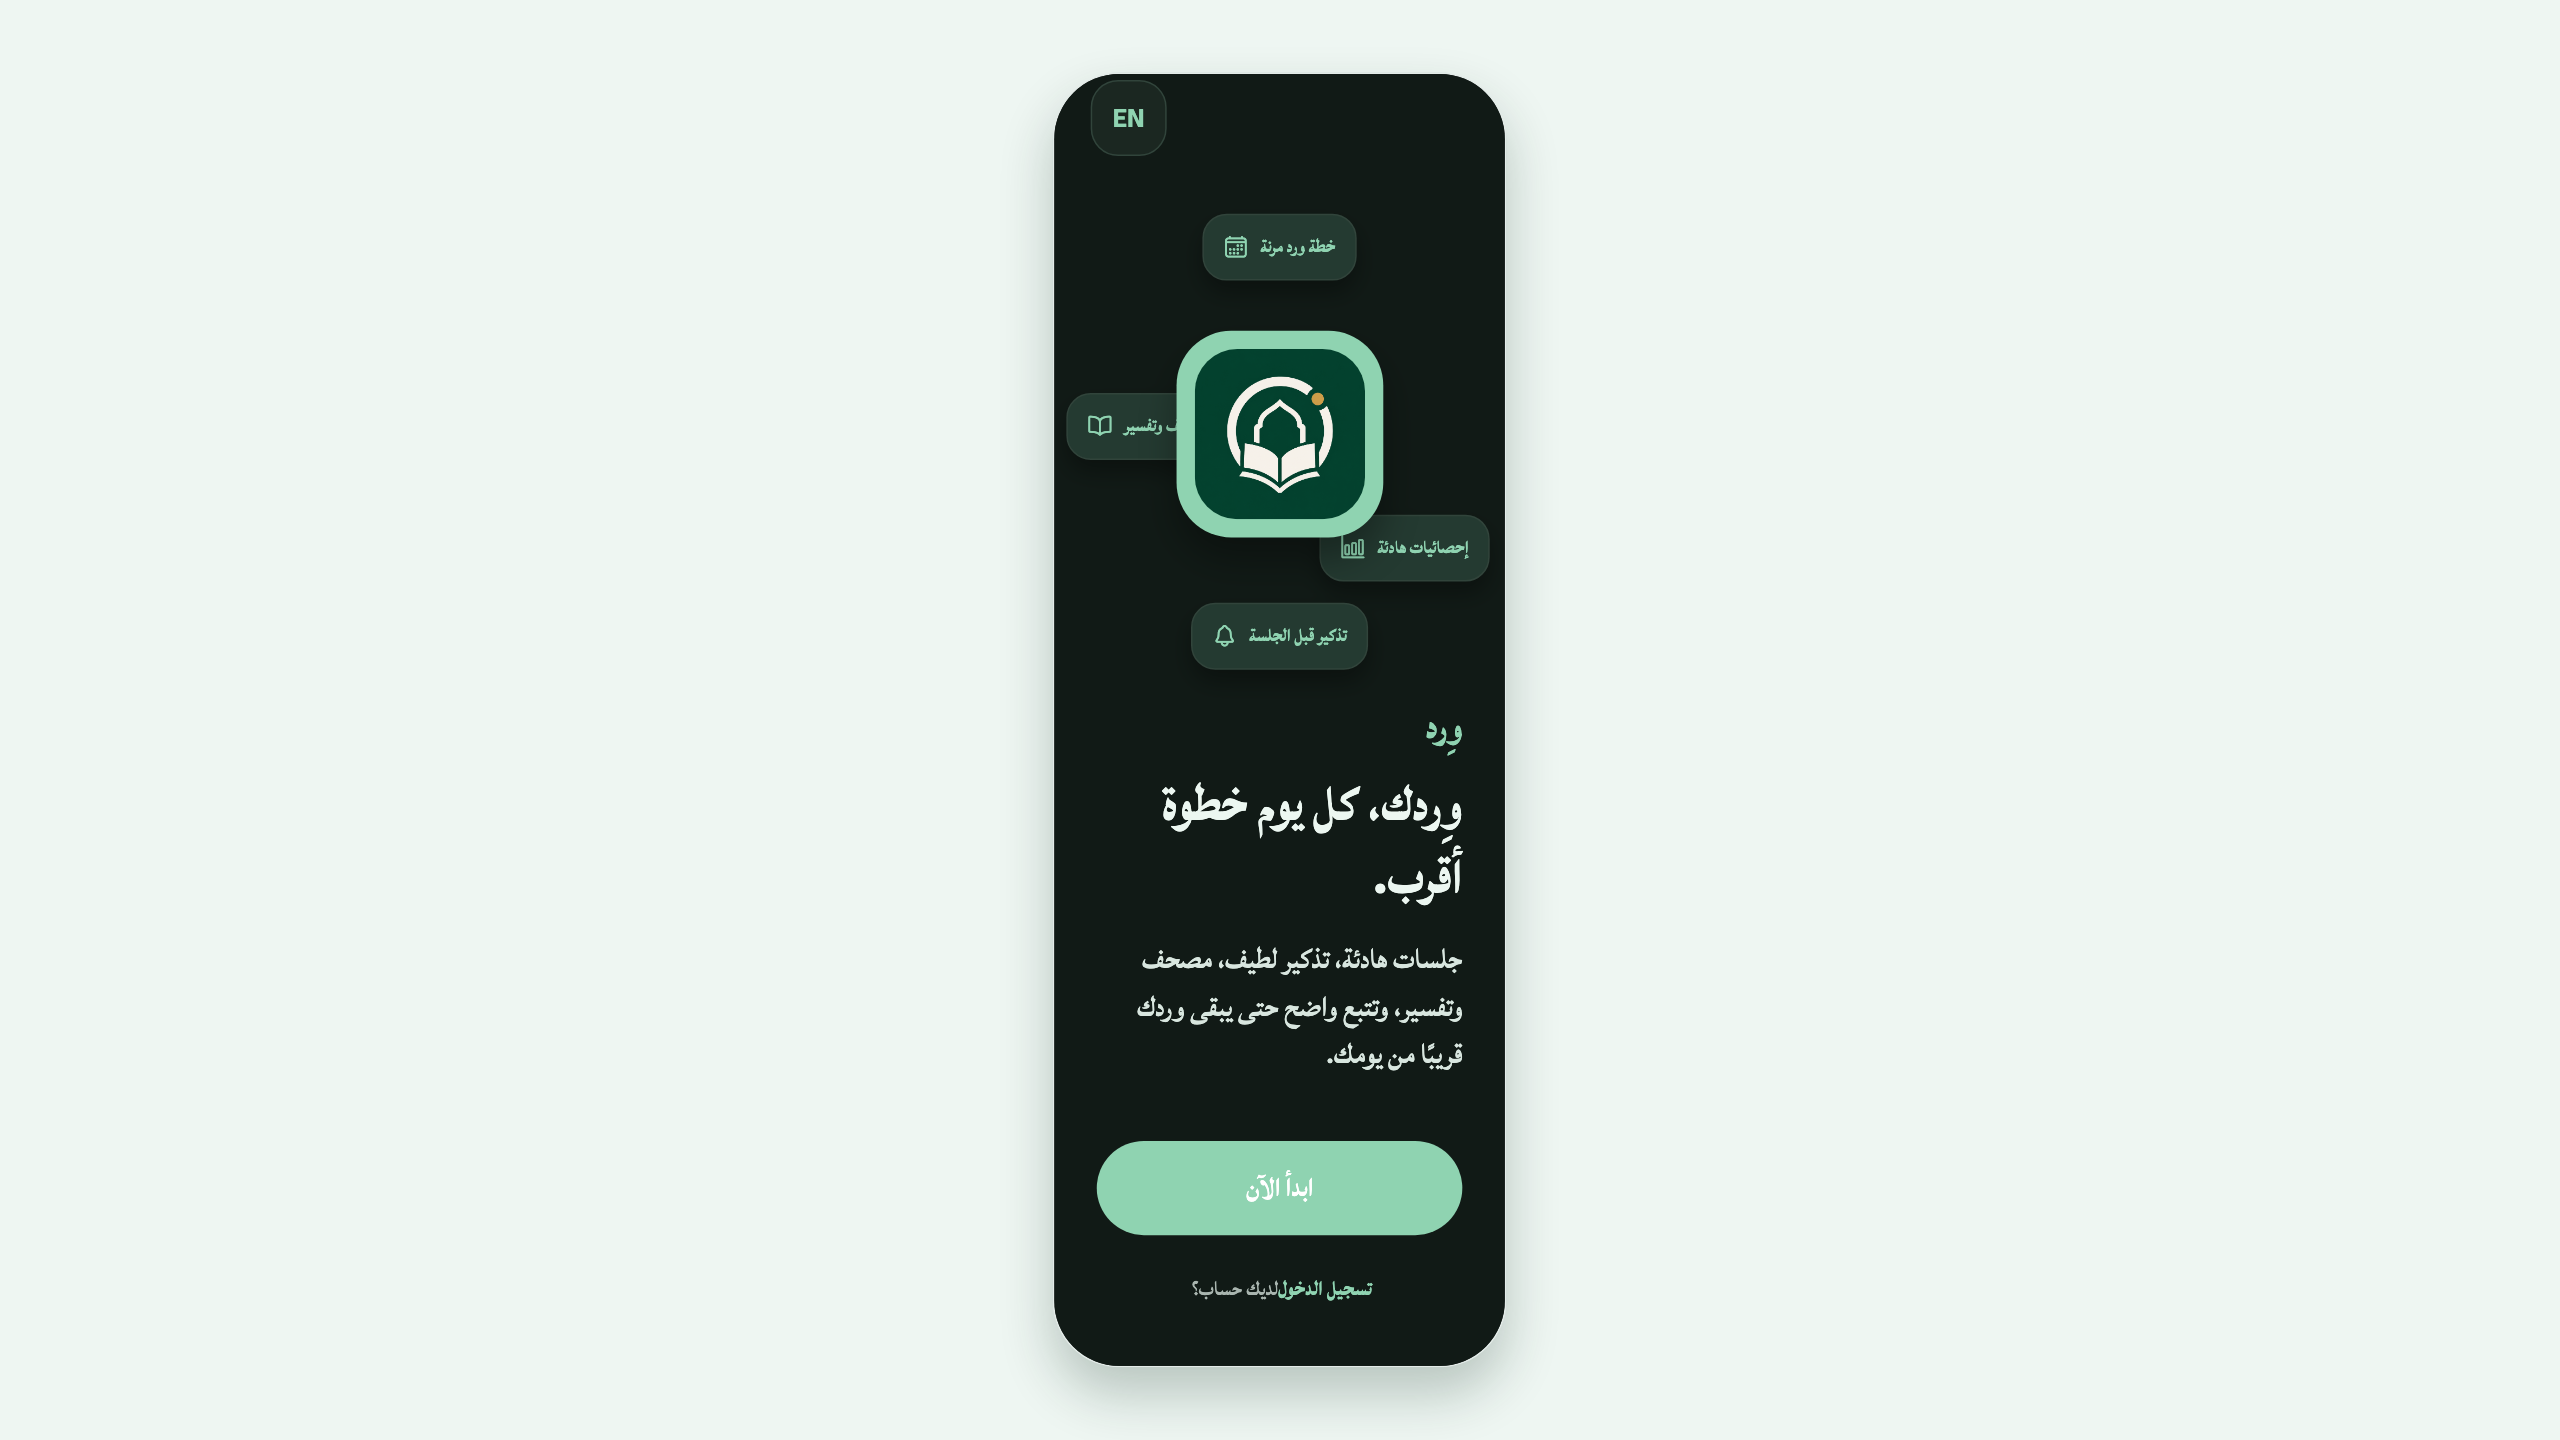
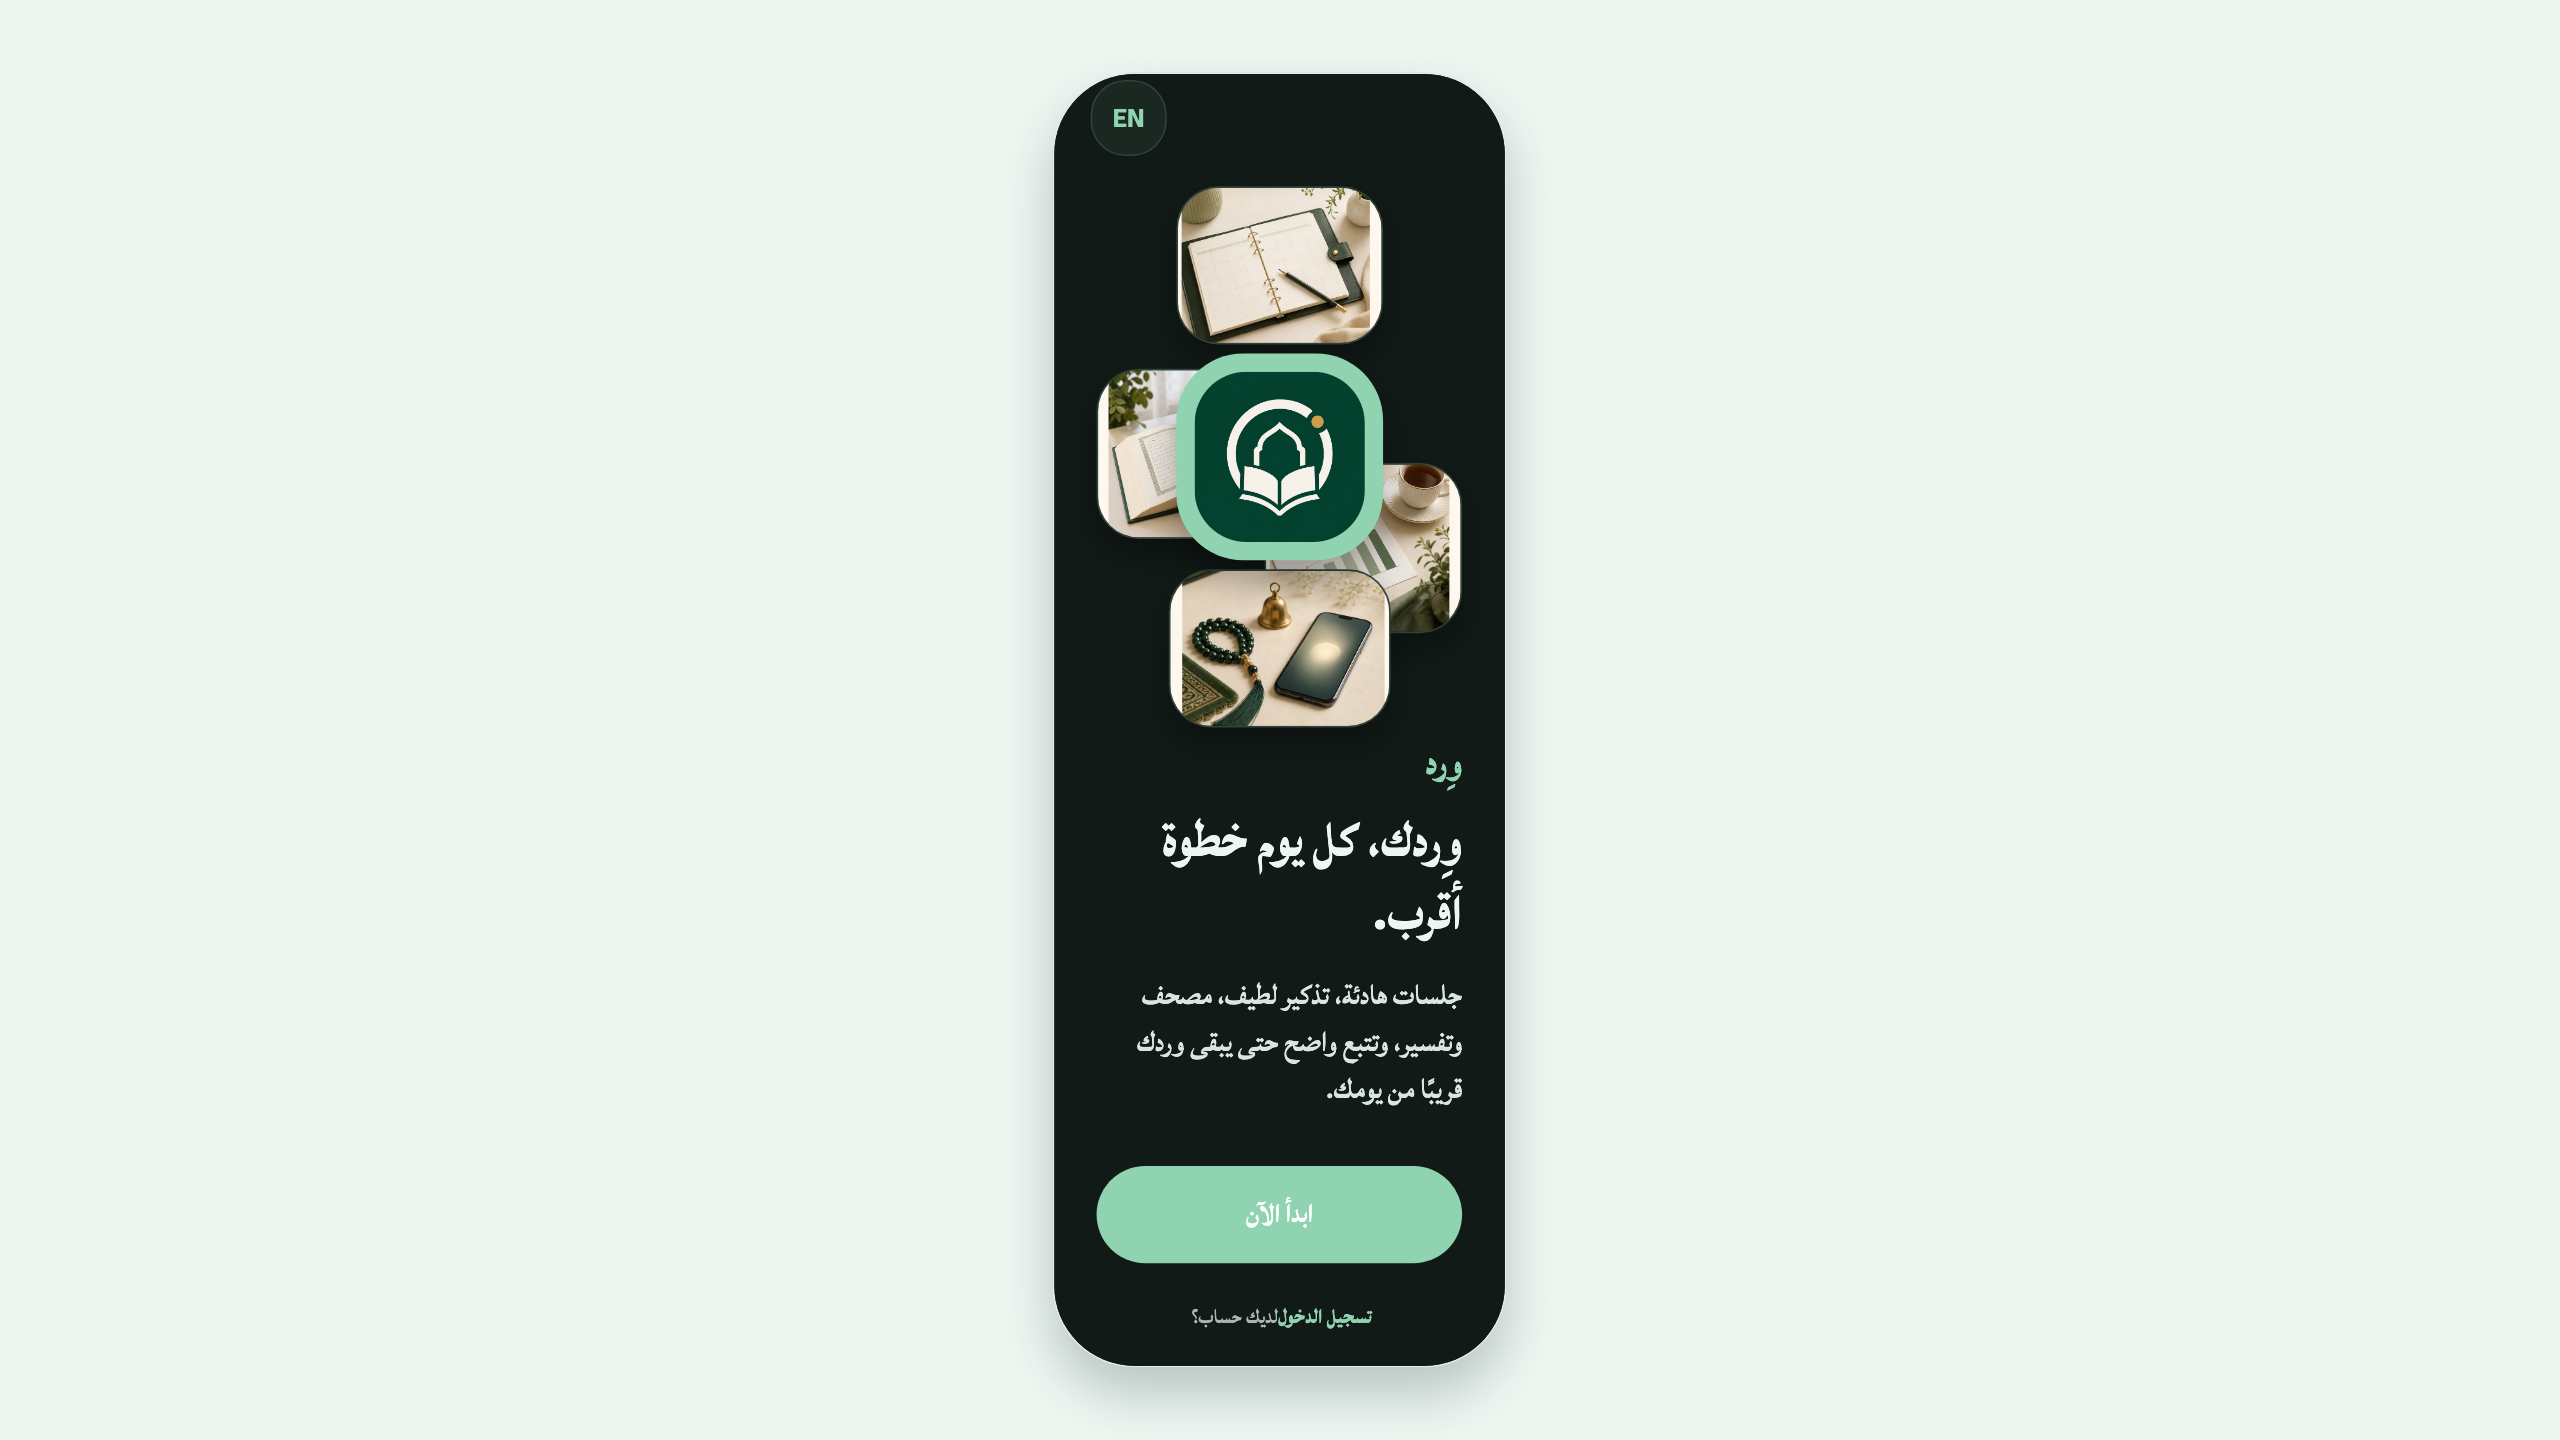
Add real onboarding image cards

Changed region(s): [[0.4062, 0.125, 0.5938, 0.9375]]

diff --git a/src/AuthFlow.tsx b/src/AuthFlow.tsx
@@ -1,5 +1,5 @@
 import { type ComponentProps, useMemo, useState } from 'react'
-import { ActivityIndicator, Image, KeyboardAvoidingView, Platform, Pressable, SafeAreaView, ScrollView, StatusBar, StyleSheet, Text, TextInput, View } from 'react-native'
+import { ActivityIndicator, Image, type ImageSourcePropType, KeyboardAvoidingView, Platform, Pressable, SafeAreaView, ScrollView, StatusBar, StyleSheet, Text, TextInput, View } from 'react-native'
 import { Ionicons } from '@expo/vector-icons'
 import * as Haptics from 'expo-haptics'
 import { signIn, signUp, type WirdProfile } from './services/auth-service'
@@ -38,6 +38,13 @@ const words = {
     editLater: 'You can edit your name and photo later', plan: 'Plan your Wird', reader: 'Mushaf and Tafsir', stats: 'Reading insights', reminder: 'Gentle reminders',
     back: 'Back',
   },
+}
+
+const onboardingImages = {
+  reader: require('../assets/onboarding/reader.png'),
+  plan: require('../assets/onboarding/plan.png'),
+  reminder: require('../assets/onboarding/reminder.png'),
+  stats: require('../assets/onboarding/stats.png'),
 }
 
 export function AuthFlow({ initialMode = 'onboarding', language, darkMode, onLanguage, onAuthenticated }: { initialMode?: Exclude<Mode, 'authChoice'>; language: Language; darkMode: boolean; onLanguage: (language: Language) => void; onAuthenticated: (profile: WirdProfile) => void }) {
@@ -84,10 +91,10 @@ export function AuthFlow({ initialMode = 'onboarding', language, darkMode, onLan
       <ScrollView contentContainerStyle={mode === 'onboarding' ? styles.onboardingContent : styles.authContent} keyboardShouldPersistTaps="handled" showsVerticalScrollIndicator={false}>
         {mode === 'onboarding' && <>
           <View style={styles.visualStage}>
-            <FeatureCard icon="calendar-outline" label={t.plan} styles={styles} colors={colors} position="top" />
-            <FeatureCard icon="book-outline" label={t.reader} styles={styles} colors={colors} position="left" />
-            <FeatureCard icon="bar-chart-outline" label={t.stats} styles={styles} colors={colors} position="right" />
-            <FeatureCard icon="notifications-outline" label={t.reminder} styles={styles} colors={colors} position="bottom" />
+            <VisualCard image={onboardingImages.plan} label={t.plan} styles={styles} position="top" />
+            <VisualCard image={onboardingImages.reader} label={t.reader} styles={styles} position="left" />
+            <VisualCard image={onboardingImages.stats} label={t.stats} styles={styles} position="right" />
+            <VisualCard image={onboardingImages.reminder} label={t.reminder} styles={styles} position="bottom" />
             <View style={styles.logoPlate}><Image source={require('../assets/wird-app-icon.png')} style={styles.logo} /></View>
           </View>
           <View style={[styles.heroCopy, rtl && styles.rtlCopy]}>
@@ -152,10 +159,9 @@ function Field({ icon, label, rtl, styles, colors, ...props }: { icon: keyof typ
   </View>
 }
 
-function FeatureCard({ icon, label, styles, colors, position }: { icon: keyof typeof Ionicons.glyphMap; label: string; styles: AuthStyles; colors: AuthColors; position: 'top' | 'left' | 'right' | 'bottom' }) {
-  return <View style={[styles.featureCard, position === 'top' && styles.featureTop, position === 'left' && styles.featureLeft, position === 'right' && styles.featureRight, position === 'bottom' && styles.featureBottom]}>
-    <Ionicons name={icon} size={16} color={colors.primary} />
-    <Text style={styles.featureText}>{label}</Text>
+function VisualCard({ image, label, styles, position }: { image: ImageSourcePropType; label: string; styles: AuthStyles; position: 'top' | 'left' | 'right' | 'bottom' }) {
+  return <View accessibilityLabel={label} style={[styles.visualCard, position === 'top' && styles.visualTop, position === 'left' && styles.visualLeft, position === 'right' && styles.visualRight, position === 'bottom' && styles.visualBottom]}>
+    <Image source={image} style={styles.visualImage} resizeMode="cover" />
   </View>
 }
 
@@ -180,15 +186,15 @@ function makeStyles(colors: AuthColors, rtl: boolean) {
     langText: { color: colors.primary, fontSize: 17, fontWeight: '700' },
     onboardingContent: { flexGrow: 1, justifyContent: 'space-between', paddingHorizontal: 28, paddingTop: 14, paddingBottom: 26 },
     authContent: { flexGrow: 1, justifyContent: 'center', paddingHorizontal: 28, paddingTop: 12, paddingBottom: 28 },
-    visualStage: { minHeight: 330, alignItems: 'center', justifyContent: 'center' },
-    logoPlate: { width: 136, height: 136, alignItems: 'center', justifyContent: 'center', borderRadius: 44, backgroundColor: colors.primary, shadowColor: colors.shadow, shadowOpacity: 1, shadowRadius: 24, shadowOffset: { width: 0, height: 14 } },
+    visualStage: { minHeight: 360, alignSelf: 'stretch', alignItems: 'center', justifyContent: 'center' },
+    logoPlate: { zIndex: 3, width: 136, height: 136, alignItems: 'center', justifyContent: 'center', borderRadius: 44, backgroundColor: colors.primary, shadowColor: colors.shadow, shadowOpacity: 1, shadowRadius: 24, shadowOffset: { width: 0, height: 14 } },
     logo: { width: 112, height: 112, borderRadius: 34 },
-    featureCard: { position: 'absolute', minHeight: 44, flexDirection: 'row', alignItems: 'center', gap: 8, paddingHorizontal: 14, borderRadius: 22, borderWidth: 1, borderColor: colors.line, backgroundColor: colors.pill, shadowColor: colors.shadow, shadowOpacity: 1, shadowRadius: 15, shadowOffset: { width: 0, height: 8 } },
-    featureTop: { top: 20, alignSelf: 'center' },
-    featureLeft: { left: -20, top: 138 },
-    featureRight: { right: -18, bottom: 68 },
-    featureBottom: { bottom: 10, alignSelf: 'center' },
-    featureText: { color: colors.primary, fontSize: 15, fontWeight: '700' },
+    visualCard: { position: 'absolute', zIndex: 1, width: 128, height: 104, overflow: 'hidden', borderRadius: 28, borderWidth: 1, borderColor: colors.line, backgroundColor: colors.card, shadowColor: colors.shadow, shadowOpacity: 1, shadowRadius: 18, shadowOffset: { width: 0, height: 10 } },
+    visualTop: { top: 2, alignSelf: 'center', width: 136, height: 104 },
+    visualLeft: { left: 0, top: 122, width: 128, height: 112 },
+    visualRight: { right: 0, top: 184, width: 130, height: 112 },
+    visualBottom: { bottom: 2, alignSelf: 'center', width: 146, height: 104 },
+    visualImage: { width: '100%', height: '100%' },
     heroCopy: { alignItems: 'flex-start' },
     rtlCopy: { alignItems: 'flex-end' },
     brand: { color: colors.primary, fontSize: rtl ? 30 : 27, fontWeight: '700', textAlign: align, writingDirection: writing },
